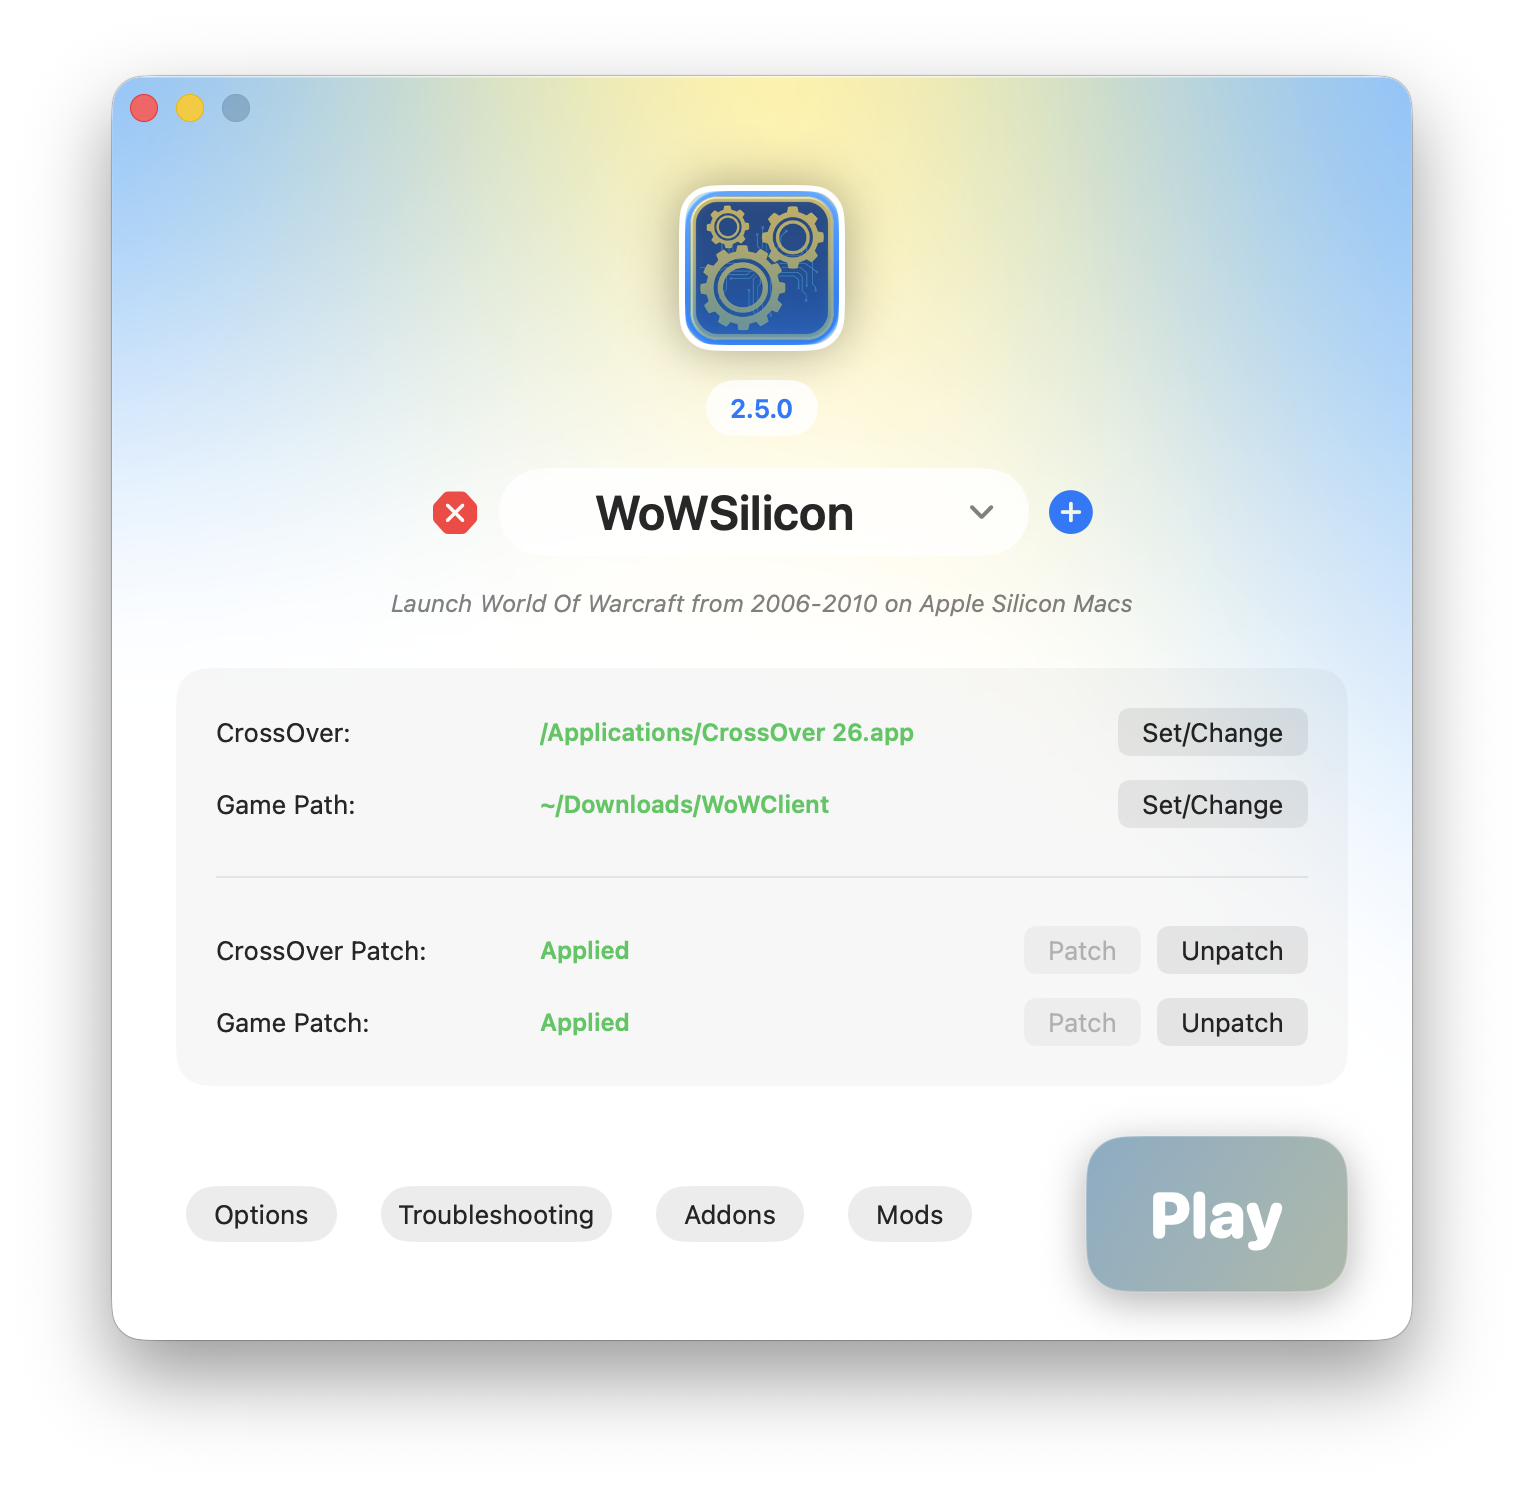
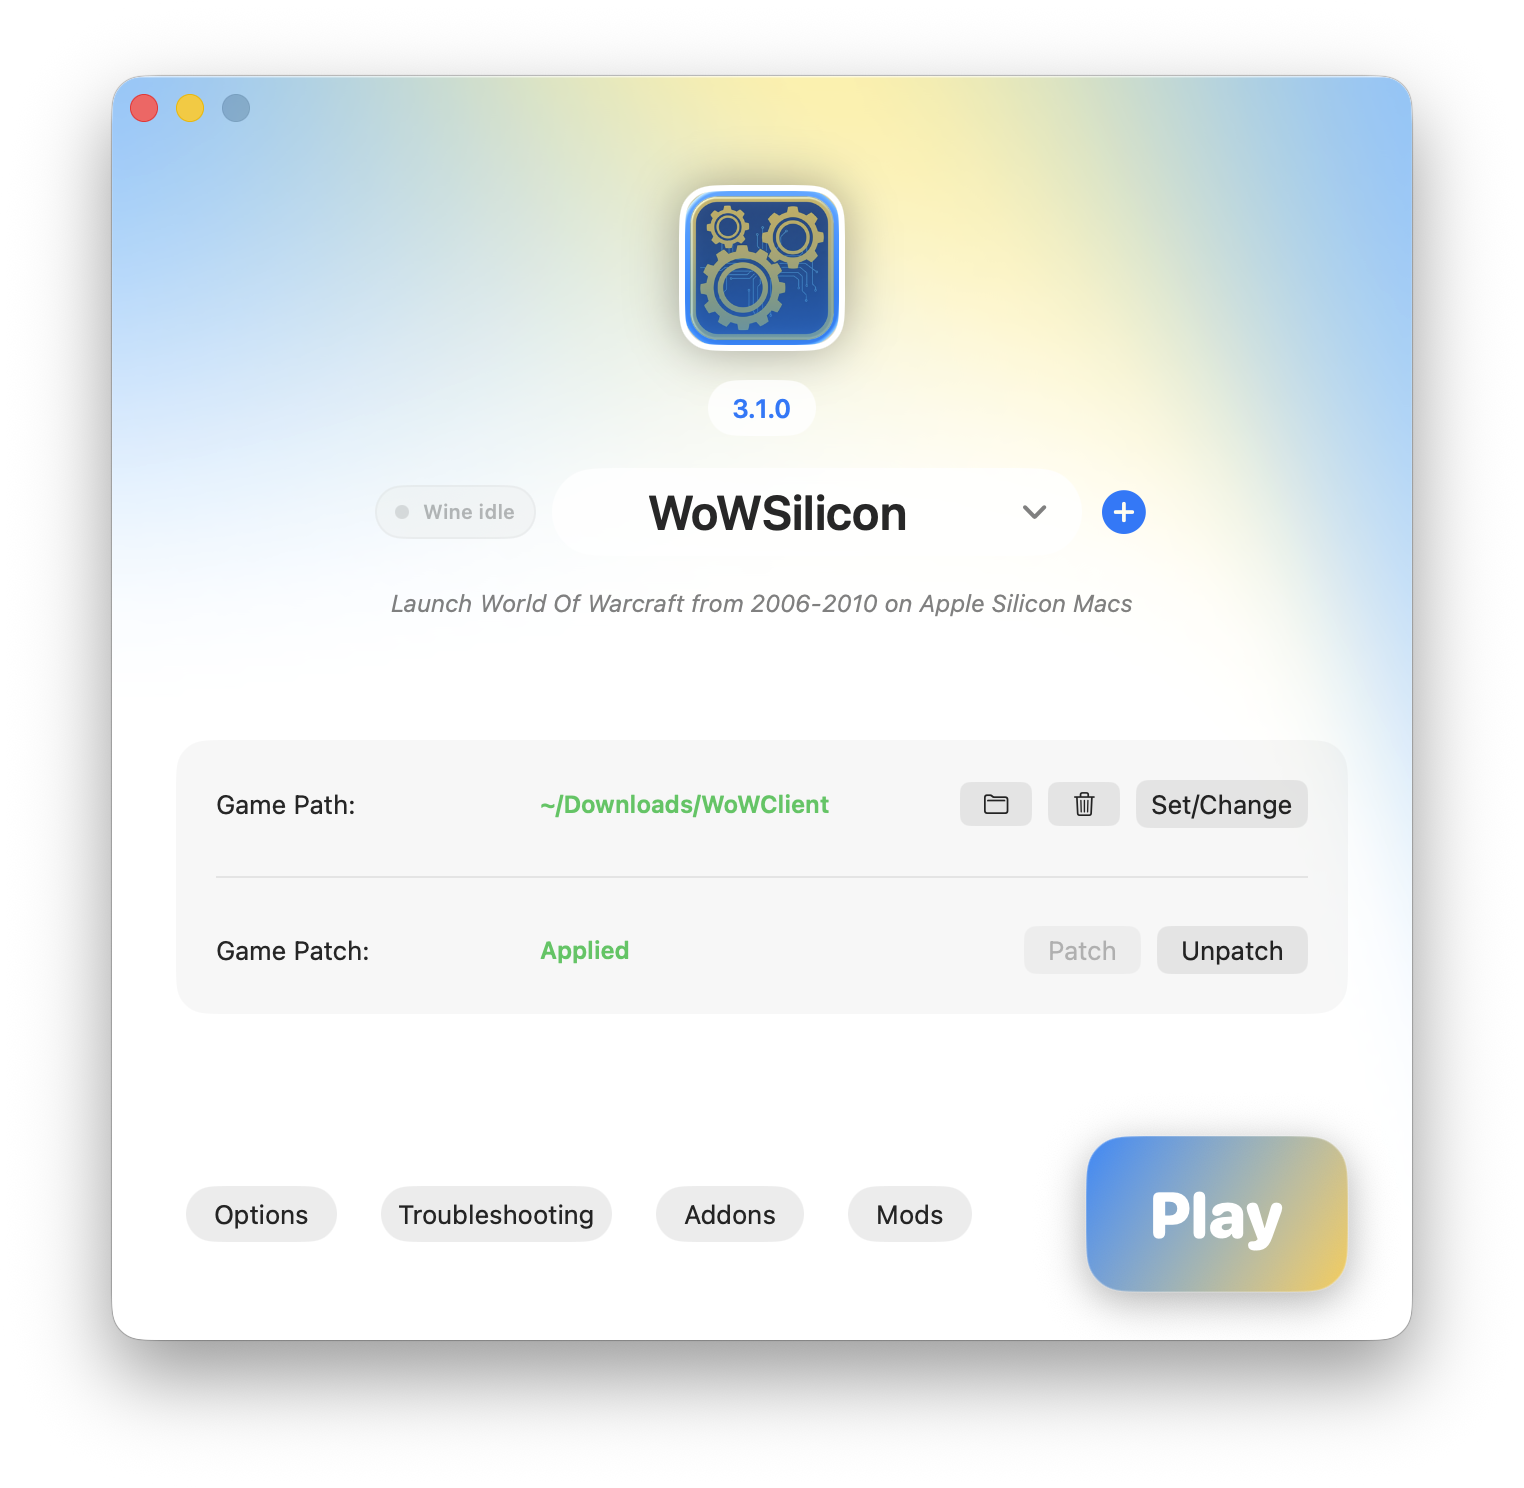
prepare for 3.1.0

diff --git a/Project.swift b/Project.swift
@@ -15,8 +15,8 @@ let project = Project(
     ),
     settings: .settings(
         base: [
-            "MARKETING_VERSION": "3.0.2",
-            "CURRENT_PROJECT_VERSION": "30002",
+            "MARKETING_VERSION": "3.1.0",
+            "CURRENT_PROJECT_VERSION": "30100",
             "SWIFT_VERSION": "6.0",
             "MACOSX_DEPLOYMENT_TARGET": "14.0",
             "DEVELOPMENT_TEAM": "",

diff --git a/docs/releases/3.1.0.md b/docs/releases/3.1.0.md
@@ -1,0 +1,54 @@
+## Wine
+
+- Custom Wine bottle location! It is now placed in the home directory inside WoWSilicon and can be changed to any location
+- Added a way to open the Wine terminal and Wine configuration for the WoWSilicon Wine runtime
+- The open terminal action now uses a shell script to avoid hitting the maximum character limit with many environment variables
+- Added a winemac patch to use the input source language in HKL, improving keyboard input for non-English layouts
+- Added a winemac patch to ignore redundant screen parameter changes, reducing unnecessary overhead
+- Improved Wine process management
+
+## Performance
+
+- Updated libSiliconPatch with 9 new hooks for Vanilla clients (+10% FPS)
+- Updated libSiliconPatch for WotLK with 37 new hooks (+10% FPS)
+- Updated x87sidecar to 1.6.0
+- Fixed a lag spike caused by rapid clicking triggering excessive Window Server refreshes
+
+## Audio
+
+- New Audio tab! Added an Audio tab in Settings to select preferred output and input devices
+- Automatic Audio switching! Audio output now automatically switches when the active device changes while the game is running. Bluetooth headphones like AirPods will switch without closing the game
+- Added Apple Spatial Audio support for a more open soundscape.
+- Added audio normalization to bring quiet sounds up and loud sounds down (for people with sensitive ears)
+
+## Input
+
+- Trackpads no longer have inertial scrolling and behave in a more controlled way
+- Added GCMouse raw input support
+
+## Profiles and Launching
+
+- Added server management to the Realmlist tab for a nicer way to switch servers on the same profile
+- Shortcuts support! You can now create a shortcut for a profile in a preferred state and launch directly without opening WoWSilicon
+
+## Mod and Addon Manager
+
+- Added third-party mod migration for (some) DLLs
+- Added more guidance to the third-party launcher installation flow
+- Fixed mod and addon manager directory buttons not opening
+
+## Bug Fixes
+
+- Fixed OptionAsAlt switch detection being broken
+- Fixed the debug log failing to read a game directory
+- Fixed an ancient bug that caused Vanilla and TBC clients to hang on exit
+
+As always, drag WoWSilicon into your Applications directory and run:
+
+```sh
+xattr -cr /Applications/WoWSilicon.app
+```
+
+Or use the updater within the app itself if you already have a previous version installed.
+
+Supported versions: macOS 15, macOS 26, macOS 27
